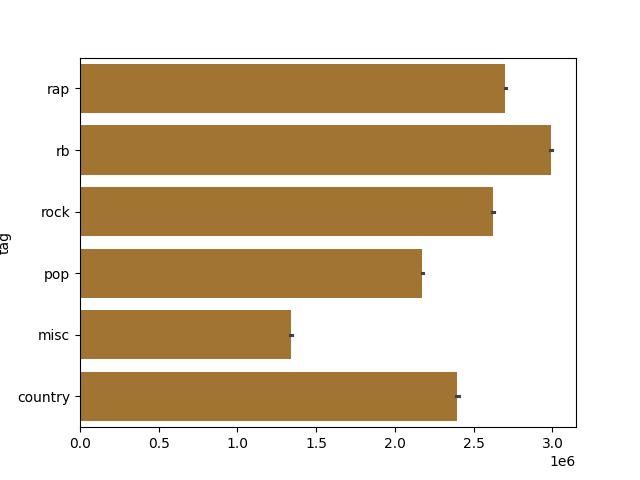
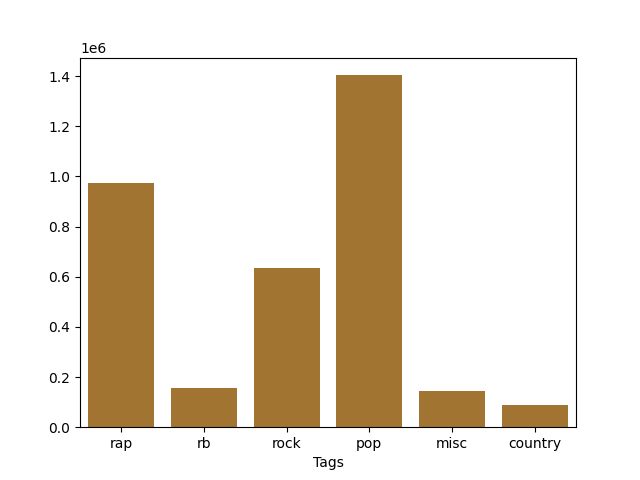
more updates

diff --git a/data_transformer.py b/data_transformer.py
@@ -2,13 +2,12 @@ from collections import Counter
 import pandas as pd
 
 from statistics import mean, median, stdev
-from typing import  Sequence, Callable, Any
+from typing import Sequence, Callable, Any
 
 import os
 import sys
 scriptdir = os.path.abspath(os.path.dirname(__file__))
 if scriptdir not in sys.path: sys.path.append(scriptdir)
-from data_inspector import count_categories
 
 def transform_feature(df: pd.DataFrame, col_name: str, action: str, args: list[Any], kwargs: dict[str,Any]):
     """Transforms a single column of the dataframe using the specified modification

diff --git a/data_inspector.py b/data_inspector.py
@@ -52,7 +52,8 @@ def make_barplot(data: Sequence[str], name:str|None=None, order:list[str]|None=N
     Create a bar plot to show the distribution of a binary, categorical, or ordinal variable
     If an order is provided, counts are shown in that order on the x-axis, otherwise alphabetical order is used.
     """
-    sns.barplot(data, name=name, order=order)
+    sns.barplot(data=count_categories(data),order=order)
+    if name: plt.xlabel(name)
     return get_image()
 
 def count_categories(items: Iterable[K]) -> dict[K, int]:
